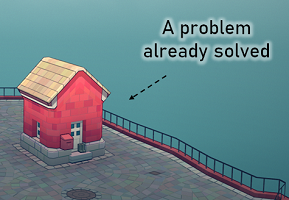
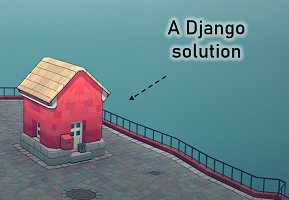
20201001

diff --git a/slides.md b/slides.md
@@ -40,7 +40,7 @@ Django.emph[es] &rightarrow; Django
 class: middle
 layout: false
 
-## .blue[How to fit a thousand Djangoes within single a Django?]
+## .blue[How to fit a thousand Djangoes in a single Django?]
 
 --
 
@@ -67,7 +67,7 @@ layout: true
 
 --
 
--   Our brave hero developed a solution.
+-   Our brave hero developed a solution in Django.
 
 --
 
@@ -112,12 +112,9 @@ brand new badge
 
 ]
 
----
+--
 
-class: middle center
-layout: false
-
-![Meme of "Is this a pigeon?" about multi-tenancy](images/pigeon-meme-multi-tenancy.png)
+.right-column-33[##### .center[🎖 Multi-tenancy]]
 
 ---
 
@@ -192,6 +189,8 @@ layout: true
 
 layout: true
 class: middle center
+
+---
 
 ---
 
@@ -622,39 +621,19 @@ Question.objects.create(...)
 
 ---
 
-Requires a **custom database backend** in order to set the search path based on the active tenant:
-
-```python
-from django.db.backends.postgresql import base as postgresql
-
-
-class DatabaseWrapper(postgresql.DatabaseWrapper):
-    def _cursor(self, name=None):  # Over simplified !!!
-        cursor = super()._cursor(name=name)
-        tenant = get_current_tenant()
-        schemas = `get_schemas_from_tenant(tenant)`
-        search_path = ",".join(schemas)
-*       cursor.execute(f"SET search_path = {search_path}")
-        return cursor
-```
-
----
-
-Requires a **database router** for controlling migrations:
-
-```python
-class SemiIsolatedTenantsDatabaseRouter:
-
-    def `allow_migrate`(self, db, app_label, model_name, ...):
-        tenant = get_current_tenant()
-        if tenant is not None:
-            return `is_tenant_specific(app_label, model_name)`
-        return not `is_tenant_specific(app_label, model_name)`
-```
+##### This is where:
 
 --
 
-.warning[⚠ The `migrate` command itself requires tweaking!]
+-   Custom database backend to set the search path.
+
+--
+
+-   Custom `migrate` command to operate with schemas.
+
+--
+
+-   Custom database router with `allow_migrate`.
 
 ---
 
@@ -923,6 +902,35 @@ def some_celery_task(self, `tenant_id`, ...):
 --
 
 .box[💡 Principles are generally extensible]
+
+---
+
+class: middle
+layout: false
+
+# Now, some of the packages
+
+---
+
+layout: true
+
+## Available packages
+
+---
+
+##### Shared database
+
+-   [citusdata/django-multitenant](https://github.com/citusdata/django-multitenant)
+-   [raphaelm/django-scopes](https://github.com/raphaelm/django-scopes)
+
+##### Semi-isolated database
+
+-   [bernardopires/django-tenant-schemas](https://github.com/bernardopires/django-tenant-schemas)
+-   [tomturner/django-tenants](https://github.com/tomturner/django-tenants)
+
+.bottom[
+.footnote[More context in https://djangopackages.org/grids/g/multi-tenancy/]
+]
 
 ---
 
